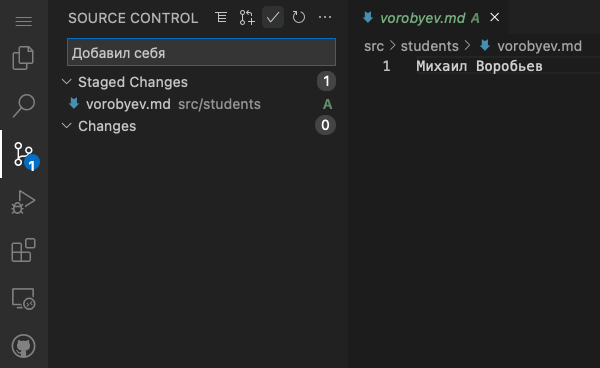
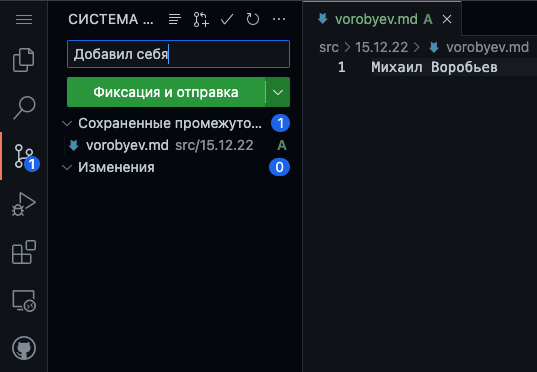
15.12.12

diff --git a/src/task.html b/src/task.html
@@ -106,7 +106,7 @@
     </li>
     <li>
         <figure>
-            <figcaption>В дереве файлов слева создайте копию файла <code>example.md</code> в папке <code>src/18.10.22</code>, нажав на файле правой кнопкой мыши, и выбрав <code>Copy (Копирование)</code>, а затем нажав правой кнопкой на папке <code>18.10.22</code> и выбрав <code>Paste (Вставить)</code></figcaption>
+            <figcaption>В дереве файлов слева создайте копию файла <code>example.md</code> в папке <code>src/15.12.22</code>, нажав на файле правой кнопкой мыши, и выбрав <code>Copy (Копирование)</code>, а затем нажав правой кнопкой на папке <code>15.12.22</code> и выбрав <code>Paste (Вставить)</code></figcaption>
             <img src="../pictures/task/copy.png" width="450" alt="">
             <img src="../pictures/task/paste.png" width="450" alt="">
         </figure>
@@ -126,7 +126,7 @@
     </li>
     <li>
         <figure>
-            <figcaption>На вкладке слева <code class="code--orange">Source Control (Система управления версиями)</code> наведите курсор на наш новый файл и нажмите на появившийся <code>+</code> справа. Введите в поле <b>Message</b> сверху сообщение для коммита и нажмите на галочку <code>✓</code></figcaption>
+            <figcaption>На вкладке слева <code class="code--orange">Source Control (Система управления версиями)</code> наведите курсор на наш новый файл и нажмите на появившийся <code>+</code> справа. Введите в поле <b> (Сообщение)</b> сверху короткое описание коммита и нажмите на зеленую кнопку <code class="code--green">Commit & Push (Фиксация и отправка)</code></figcaption>
             <img src="../pictures/task/stage.png" width="450" alt="">
             <img src="../pictures/task/commit.png" width="450" alt="">
         </figure>

diff --git a/src/15.12.22/15.12.22.11tydata.js b/src/15.12.22/15.12.22.11tydata.js
@@ -1,0 +1,19 @@
+const EleventyFetch = require("@11ty/eleventy-fetch");
+
+function getCat(data) {
+    return EleventyFetch('https://api.thecatapi.com/v1/images/search?cache=' + data.page.fileSlug, {
+        type: "json"
+    }).then(function getCatUrl(/** @type {{ url: string; }[]} */ res) {
+        if (res && res[0] && res[0].url) {
+            return res[0].url;
+        }
+
+        return 'https://cdn2.thecatapi.com/images/2BSxnHaIx.png';
+    });
+}
+
+module.exports = {
+    permalink: false,
+    tags: "15.12.22",
+    eleventyComputed: { img: getCat },
+};

diff --git a/src/cats/index.html b/src/cats/index.html
@@ -32,6 +32,7 @@
 </header>
 <main>
 <ul>
+    <li><a href="15.12.22/">15 декабря 2022</a></li>
     <li><a href="18.10.22/">18 октября 2022</a></li>
     <li><a href="30.08.22/">30 августа 2022</a></li>
     <li><a href="12.07.22/">12 июля 2022</a></li>

diff --git a/src/15.12.22/example.md b/src/15.12.22/example.md
@@ -1,0 +1,1 @@
+Пример Примерович
